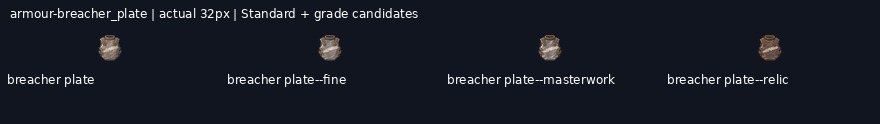
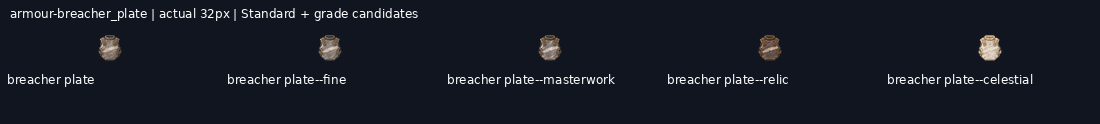
art: draw armour-breacher_plate--celestial grade candidate

diff --git a/art/_archive/gear/2026-11-19-kept-blade-grades/HANDOFF.md b/art/_archive/gear/2026-11-19-kept-blade-grades/HANDOFF.md
@@ -1,6 +1,6 @@
 # Gear grade candidates
 
-**156/208 grade candidates delivered** on `art/2026-11-19-kept-blade-grades`. Shared mailbox: https://github.com/leonpentastorm/Project-Heaven-Cry/issues/3 . See claim.json for this lane’s current Standards. Released overlapping blades reuse12 peer candidates, with3 local alternatives archived.
+**157/208 grade candidates delivered** on `art/2026-11-19-kept-blade-grades`. Shared mailbox: https://github.com/leonpentastorm/Project-Heaven-Cry/issues/3 . See claim.json for this lane’s current Standards. Released overlapping blades reuse12 peer candidates, with3 local alternatives archived.
 
 Leon requested continuous candidate production; proof approval is not fabricated. All candidates remain review-candidate, production_approved:false, implementation_ready:false, with outline.review_required:true. Exact outline is measured, never asserted unless the masks match. Per-image registration is uniform scaling/translation only, without warp, silhouette masks, filled pixels or code-drawn substitutes. The generated native remains untouched.
 
@@ -10,12 +10,12 @@ Tomorrow: fetch this branch and develop safely, read the latest issue 3 comments
 
 Peer audit: [coordination/peer-audit-2026-11-19.md](coordination/peer-audit-2026-11-19.md). Peer58 masters/232 exports and12 canonical imports are integrated with versioned alpha<8 cleanup; originals are retained. See coordination/peer-import-v2/manifest.json and post-catalog VALIDATION.json (strict margins pass, solid alpha unchanged). Peer quota resets20 November2026 at09:45:39 Bangkok time; this does not establish this session’s quota.
 
-Remaining: weapon-ork_machete--masterwork, weapon-ork_machete--relic, weapon-ork_machete--celestial, weapon-war_axe--fine, weapon-war_axe--masterwork, weapon-war_axe--relic, weapon-war_axe--celestial, weapon-parlour_pistol--fine, weapon-parlour_pistol--masterwork, weapon-parlour_pistol--relic, weapon-parlour_pistol--celestial, weapon-lever_carbine--fine, weapon-lever_carbine--masterwork, weapon-lever_carbine--relic, weapon-lever_carbine--celestial, weapon-sawn_off--fine, weapon-sawn_off--masterwork, weapon-sawn_off--relic, weapon-sawn_off--celestial, weapon-coach_gun--fine, weapon-coach_gun--masterwork, weapon-coach_gun--relic, weapon-coach_gun--celestial, weapon-legion_bullpup--fine, weapon-legion_bullpup--masterwork, weapon-legion_bullpup--relic, weapon-legion_bullpup--celestial, weapon-whisper_smg--fine, weapon-whisper_smg--masterwork, weapon-whisper_smg--relic, weapon-whisper_smg--celestial, armour-breacher_plate--celestial, armour-mesh_undersuit--fine, armour-mesh_undersuit--masterwork, armour-mesh_undersuit--relic, armour-mesh_undersuit--celestial, armour-rig_belt--fine, armour-rig_belt--masterwork, armour-rig_belt--relic, armour-rig_belt--celestial, armour-field_trousers--fine, armour-field_trousers--masterwork, armour-field_trousers--relic, armour-field_trousers--celestial, armour-tactical_gloves--fine, armour-tactical_gloves--masterwork, armour-tactical_gloves--relic, armour-tactical_gloves--celestial, armour-jump_boots--fine, armour-jump_boots--masterwork, armour-jump_boots--relic, armour-jump_boots--celestial.
+Remaining: weapon-ork_machete--masterwork, weapon-ork_machete--relic, weapon-ork_machete--celestial, weapon-war_axe--fine, weapon-war_axe--masterwork, weapon-war_axe--relic, weapon-war_axe--celestial, weapon-parlour_pistol--fine, weapon-parlour_pistol--masterwork, weapon-parlour_pistol--relic, weapon-parlour_pistol--celestial, weapon-lever_carbine--fine, weapon-lever_carbine--masterwork, weapon-lever_carbine--relic, weapon-lever_carbine--celestial, weapon-sawn_off--fine, weapon-sawn_off--masterwork, weapon-sawn_off--relic, weapon-sawn_off--celestial, weapon-coach_gun--fine, weapon-coach_gun--masterwork, weapon-coach_gun--relic, weapon-coach_gun--celestial, weapon-legion_bullpup--fine, weapon-legion_bullpup--masterwork, weapon-legion_bullpup--relic, weapon-legion_bullpup--celestial, weapon-whisper_smg--fine, weapon-whisper_smg--masterwork, weapon-whisper_smg--relic, weapon-whisper_smg--celestial, armour-mesh_undersuit--fine, armour-mesh_undersuit--masterwork, armour-mesh_undersuit--relic, armour-mesh_undersuit--celestial, armour-rig_belt--fine, armour-rig_belt--masterwork, armour-rig_belt--relic, armour-rig_belt--celestial, armour-field_trousers--fine, armour-field_trousers--masterwork, armour-field_trousers--relic, armour-field_trousers--celestial, armour-tactical_gloves--fine, armour-tactical_gloves--masterwork, armour-tactical_gloves--relic, armour-tactical_gloves--celestial, armour-jump_boots--fine, armour-jump_boots--masterwork, armour-jump_boots--relic, armour-jump_boots--celestial.
 
 Service-rejected requests (do not repeatedly resubmit): weapon-coach_gun--fine, weapon-legion_bullpup--fine, weapon-lever_carbine--fine, weapon-ork_machete--masterwork, weapon-parlour_pistol--fine, weapon-sawn_off--fine, weapon-war_axe--fine, weapon-whisper_smg--fine.
 
 Waiting on rejected prerequisites: weapon-coach_gun--celestial, weapon-coach_gun--masterwork, weapon-coach_gun--relic, weapon-legion_bullpup--celestial, weapon-legion_bullpup--masterwork, weapon-legion_bullpup--relic, weapon-lever_carbine--celestial, weapon-lever_carbine--masterwork, weapon-lever_carbine--relic, weapon-ork_machete--celestial, weapon-ork_machete--relic, weapon-parlour_pistol--celestial, weapon-parlour_pistol--masterwork, weapon-parlour_pistol--relic, weapon-sawn_off--celestial, weapon-sawn_off--masterwork, weapon-sawn_off--relic, weapon-war_axe--celestial, weapon-war_axe--masterwork, weapon-war_axe--relic, weapon-whisper_smg--celestial, weapon-whisper_smg--masterwork, weapon-whisper_smg--relic.
 
-Ready independent next steps, in queue order: armour-breacher_plate--celestial, armour-mesh_undersuit--fine, armour-rig_belt--fine, armour-field_trousers--fine, armour-tactical_gloves--fine, armour-jump_boots--fine. Other pending grades follow their preceding grade.
+Ready independent next steps, in queue order: armour-mesh_undersuit--fine, armour-rig_belt--fine, armour-field_trousers--fine, armour-tactical_gloves--fine, armour-jump_boots--fine. Other pending grades follow their preceding grade.
 
 Runtime handoff: implementation_ready:false records review status but does not gate the web asset builder. The builder emits grade asset keys; the current UI gear resolver still needs grade-aware selection. Do not claim that runtime grade selection is implemented by these art deliveries.
